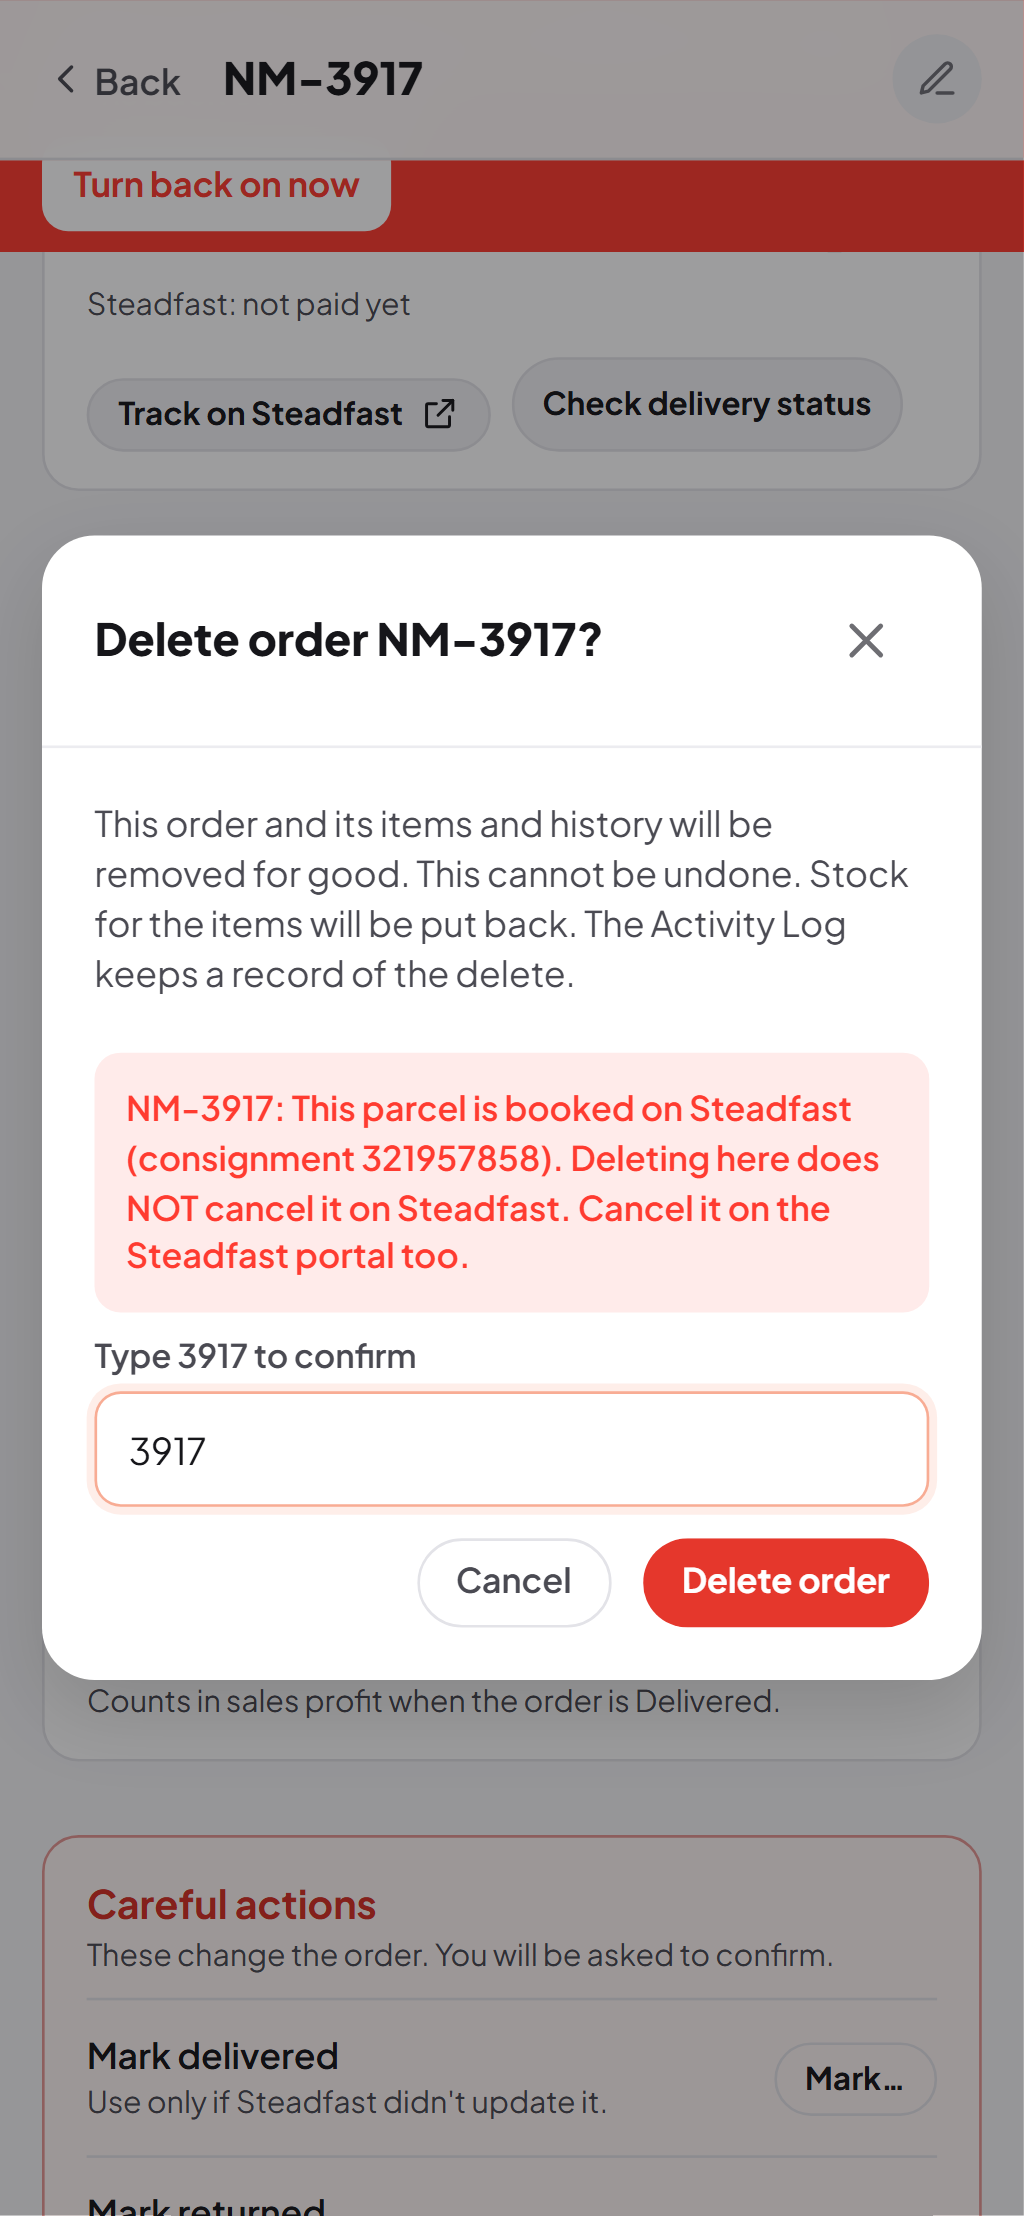
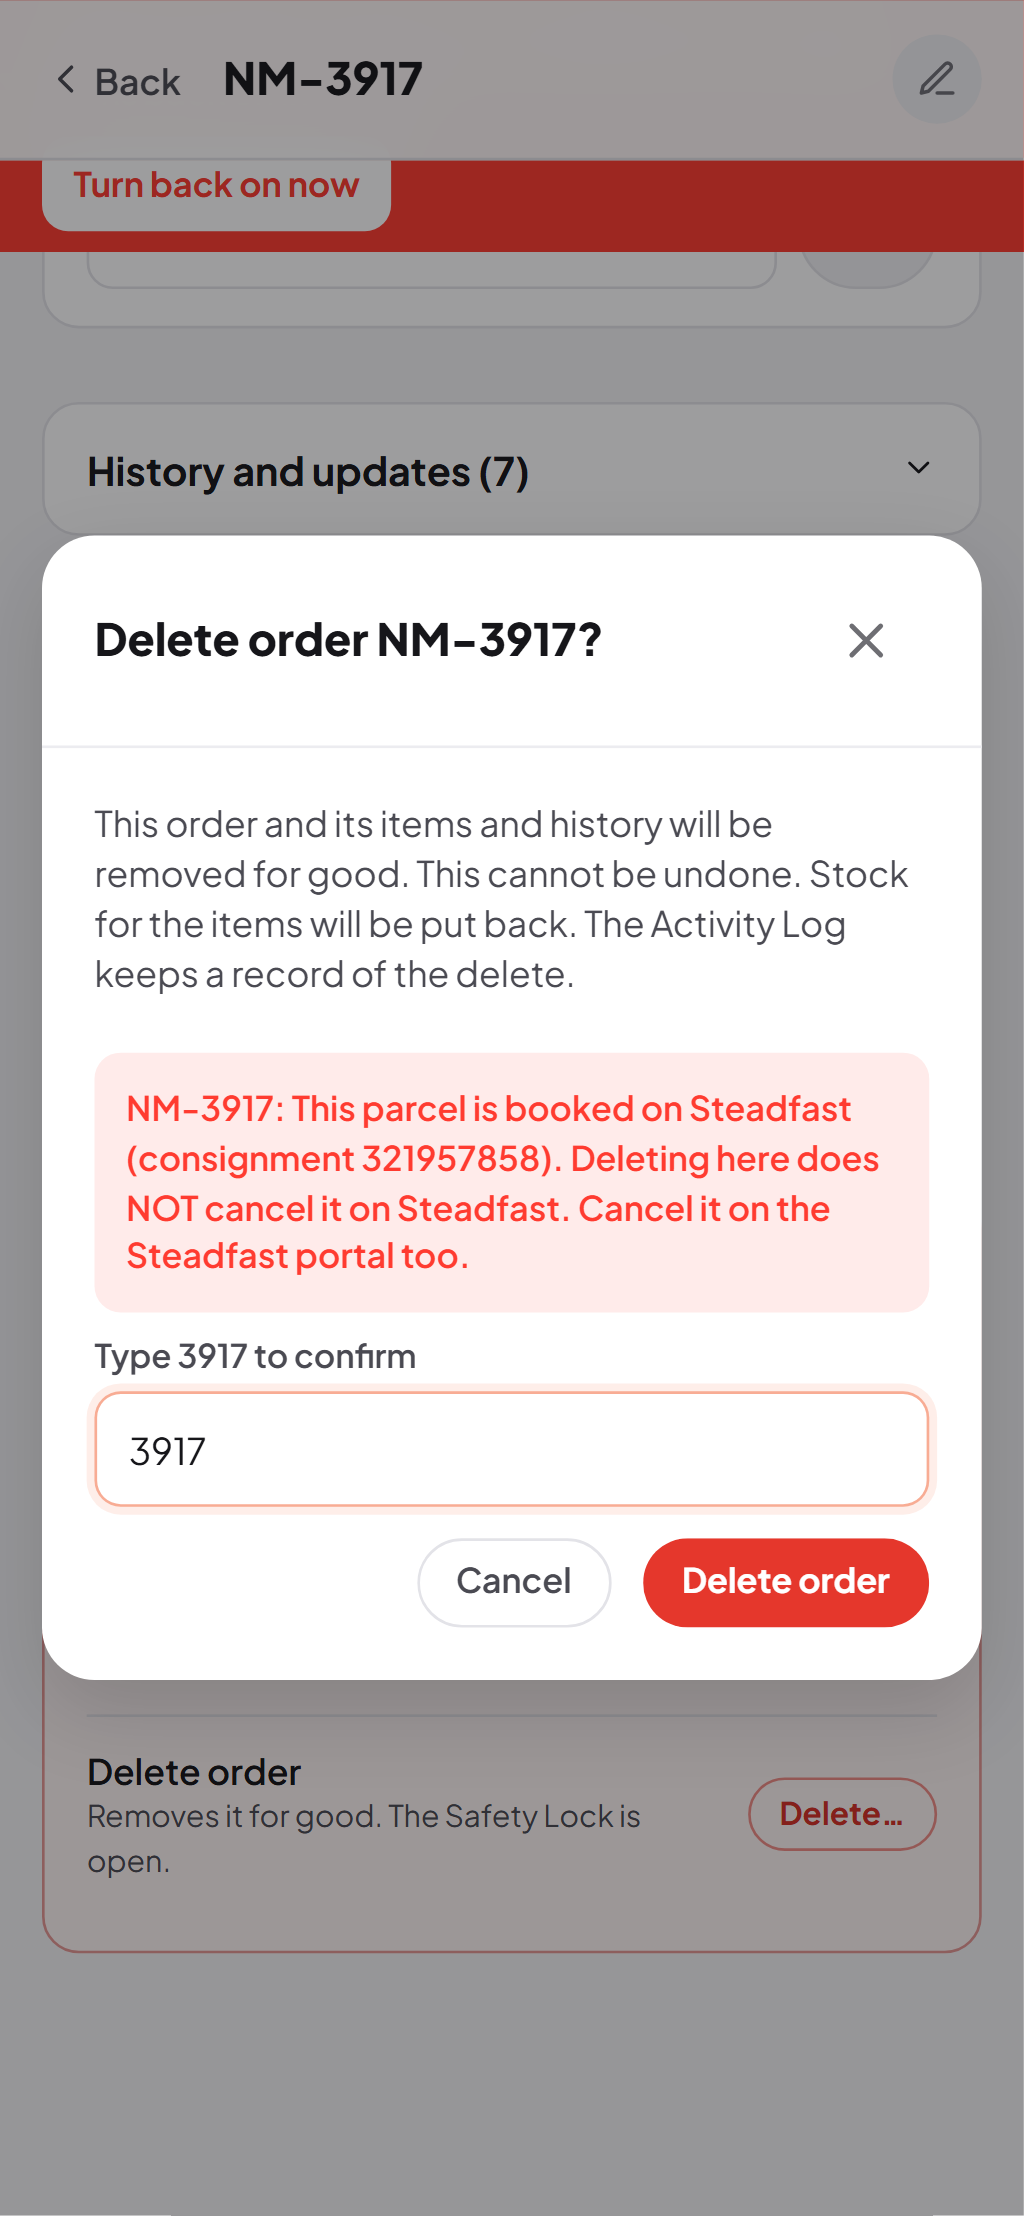
Batch 47 Task 2: product description editor no longer re-initialised on every keystroke (stable extensions, editorProps and initial content for useEditor)

diff --git a/e2e/batch-47.spec.ts b/e2e/batch-47.spec.ts
@@ -71,3 +71,58 @@ test('Task 1: the delete confirm field keeps focus and takes typed digits while 
   await page.screenshot({ path: `${SHOTS}/01-delete-field-typed.png` });
   await page.getByRole('button', { name: 'Cancel' }).click();
 });
+
+/* ------------------------------- Task 2: description keeps the keyboard */
+
+test('Task 2: typing a long product description keeps the same editor focused the whole time (no re-mount)', async ({ page }) => {
+  test.setTimeout(120_000);
+  const found = await select<{ id: string }[]>(null, 'products_view?select=id&is_active=eq.true&order=name.asc&limit=1');
+  const id = found.data?.[0]?.id;
+  test.skip(!id, 'No product to open.');
+  // Nothing is saved: any product write is refused in the browser.
+  await page.route(/\/rest\/v1\/products(\?|$)/, (route) => (route.request().method() === 'GET' ? route.fallback() : route.abort()));
+  await adminAt(page, `/admin/products/${id}/edit`);
+  const box = page.locator('#pf-description');
+  await expect(box).toBeVisible({ timeout: 20_000 });
+  await box.click();
+  await page.keyboard.press('Control+End');
+  // Mark the editor's DOM node, then count how often Tiptap pushes new
+  // options (setProps + updateState) into the live editor while typing —
+  // what used to happen on every key press.
+  const hooked = await page.evaluate(() => {
+    type Ed = { setOptions: (o: unknown) => void };
+    const el = document.getElementById('pf-description') as HTMLElement & { b47?: boolean; editor?: Ed };
+    el.b47 = true;
+    const w = window as Window & { b47Set?: number };
+    w.b47Set = 0;
+    const ed = el.editor;
+    if (!ed) return false;
+    const original = ed.setOptions.bind(ed);
+    ed.setOptions = (o: unknown) => {
+      w.b47Set = (w.b47Set ?? 0) + 1;
+      original(o);
+    };
+    return true;
+  });
+  expect(hooked, 'the editor instance is reachable').toBe(true);
+  const text = ' Gentle foaming cleanser for normal to oily skin, with ceramides and niacinamide.';
+  for (let i = 0; i < text.length; i += 1) {
+    await page.keyboard.type(text[i]);
+    if (i % 10 === 0) await page.waitForTimeout(400);
+  }
+  await page.waitForTimeout(1500);
+  const after = await page.evaluate(() => {
+    const el = document.getElementById('pf-description') as (HTMLElement & { b47?: boolean }) | null;
+    return {
+      same: el?.b47 === true,
+      focused: document.activeElement === el,
+      setOptionsCalls: (window as Window & { b47Set?: number }).b47Set ?? -1,
+    };
+  });
+  expect(after.same, 'the editor was never replaced').toBe(true);
+  expect(after.focused, 'the editor kept focus').toBe(true);
+  expect(after.setOptionsCalls, 'nothing was pushed into the editor while typing').toBe(0);
+  await expect(box).toContainText('ceramides and niacinamide.');
+  await box.scrollIntoViewIfNeeded();
+  await page.screenshot({ path: `${SHOTS}/02-description-typing.png` });
+});

diff --git a/src/components/admin/RichTextEditor.tsx b/src/components/admin/RichTextEditor.tsx
@@ -1,10 +1,11 @@
-import { useEffect, useRef, useState, type ReactNode } from 'react';
+import { useEffect, useMemo, useRef, useState, type ReactNode } from 'react';
 import { EditorContent, useEditor, useEditorState, type Editor } from '@tiptap/react';
 import { Extension, Mark, Node, mergeAttributes } from '@tiptap/core';
 import StarterKit from '@tiptap/starter-kit';
 import { DOMParser as PMDOMParser, Slice } from '@tiptap/pm/model';
 import { TextSelection, type Transaction } from '@tiptap/pm/state';
 import { findWrapping } from '@tiptap/pm/transform';
+import type { EditorProps } from '@tiptap/pm/view';
 import {
   RT_BOX_LABELS,
   RT_COLOR_LABELS,
@@ -558,10 +559,17 @@ export default function RichTextEditor({ id, value, onChange, placeholder, label
   // Empty state class for the placeholder.
   const [empty, setEmpty] = useState(value.trim() === '');
 
-  const editor = useEditor({
-    extensions: richTextExtensions(),
-    content: toEditorHtml(value),
-    editorProps: {
+  // Batch 47: every option handed to useEditor must keep the same identity
+  // from one render to the next. Tiptap compares them on every render (and
+  // every keystroke re-renders the form); a new extensions list, a new
+  // editorProps object or a changed `content` made it push setProps +
+  // updateState into the live editor each time, rewriting the editable
+  // element under the person typing — on a phone that closed the keyboard.
+  // Text that arrives later is loaded by the effect below, not by `content`.
+  const [extensions] = useState(richTextExtensions);
+  const [initialContent] = useState(() => toEditorHtml(value));
+  const editorProps = useMemo<EditorProps>(
+    () => ({
       attributes: {
         id,
         class: 'rich-text rt-editor__content',
@@ -580,7 +588,14 @@ export default function RichTextEditor({ id, value, onChange, placeholder, label
         const parsed = PMDOMParser.fromSchema(view.state.schema).parseSlice(dom, { preserveWhitespace: true, context: $context });
         return Slice.maxOpen(parsed.content);
       },
-    },
+    }),
+    [id, labelledBy, placeholder]
+  );
+
+  const editor = useEditor({
+    extensions,
+    content: initialContent,
+    editorProps,
     onUpdate: ({ editor: e }) => {
       typedRef.current = true;
       markDirty();
